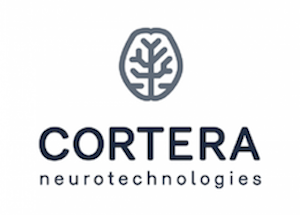
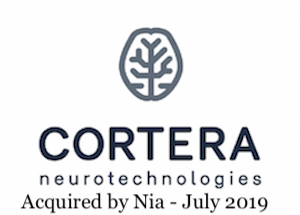
Adding Novela, Intel, Nia, Facebook. Amending status of Cortera, and CTRL-Labs

Changed region(s): [[0.06, 0.893, 0.9, 1.0]]

diff --git a/neuroengineering_companies.html b/neuroengineering_companies.html
@@ -214,6 +214,36 @@
     border-radius: 15%
     }
 
+    .img_15-1{
+    background-image:url('img/facebook.png');
+    background-color: white;
+    border-radius: 15%
+    }
+
+    .img_15-2{
+    background-image:url('img/nia.jpg');
+    background-color: white;
+    border-radius: 15%
+    }
+
+    .img_15-3{
+    background-image:url('img/neuronexus.jpg');
+    background-color: white;
+    border-radius: 15%
+    }
+
+    .img_15-4{
+    background-image:url('img/intel.png');
+    background-color: white;
+    border-radius: 15%
+    }
+
+    .img_15-5{
+    background-image:url('img/novela.jpg');
+    background-color: white;
+    border-radius: 15%
+    }
+
     </style>
 
 </head>
@@ -334,20 +364,24 @@
                                         <a href="https://calahealth.com/" target="_blank"><div class="square img_1-1 hover"></div></a>
                                         <a href="https://www.ctrl-labs.com/ctrl-kit/" target="_blank"> <div class="square img_1-2"></div></a>
                                         <a href="https://dreem.com/en/journey" target="_blank"> <div class="square img_12-1"></div></a>
+                                        <a href="https://www.theverge.com/2019/9/23/20881032/facebook-ctrl-labs-acquisition-neural-interface-armband-ar-vr-deal" target="_blank"> <div class="square img_15-1"></div></a>
                                         <a href="https://thinkhumm.com/" target="_blank"> <div class="square img_14-1"></div></a>
                                         <a href="https://kernel.co/" target="_blank"> <div class="square img_1-3"></div></a>
                                         <a href="https://choosemuse.com/how-it-works/" target="_blank"> <div class="square img_2-1"></div></a>
                                         <a href="http://neurable.com/technology" target="_blank"> <div class="square img_11-1"></div></a>
                                         <a href="http://www.neurosigma.com/research.html" target="_blank"> <div class="square img_2-2"></div></a>
                                         <a href="https://www.openwater.cc/" target="_blank"> <div class="square img_2-3"></div></a>
+                                        <a href="" target="_blank"> <div class="square"></div></a>
+                                        <a href="" target="_blank"> <div class="square"></div></a>
                                         <div style='text-align: center;'>
                                             <div class = 'column' style='width:30%; height:25%; padding:1.9%; border-radius: 25%; display: inline-block;'> </div>
                                         </div> 
                                         <div>
                                             <ul>
                                                 <li><a href="https://calahealth.com/" target="_blank"><b>Cala Health:</b></a> Wearable neuromodulator targeting the peripheral nervous system to alleviate essential tremor.</li>
-                                                <li><a href="https://www.ctrl-labs.com/ctrl-kit/" target="_blank"><b>CTRL-Labs:</b></a> Wearable electromyography (EMG) technology to decode neural signals for hand gestures.</li>
+                                                <li><a href="https://www.ctrl-labs.com/ctrl-kit/" target="_blank"><b>CTRL-Labs:</b></a> Wearable electromyography (EMG) technology to decode neural signals for hand gestures. Acquired by Facebook in Sept 2019.</li>
                                                 <li><a href="https://dreem.com/en/journey" target="_blank"><b>Dreem:</b></a> A wearable electroencephalogram (EEG) headband for monitoring sleep activity.</li>
+                                                <li><a href="https://www.theverge.com/2019/9/23/20881032/facebook-ctrl-labs-acquisition-neural-interface-armband-ar-vr-deal" target="_blank"><b>Facebook:</b></a> Acquired CRTL-Labs. We will see what comes of their electromyography (EMG) wristband technology.</li>
                                                 <li><a href="https://thinkhumm.com/" target="_blank"><b>Humm:</b></a> A wearable patch that stimulates the brain using transcranial alternating current stimulation (tACS).</li>
                                                 <li><a href="https://kernel.co/" target="_blank"><b>Kernel:</b></a> A non-invasive brain machine interface company.</li>
                                                 <li><a href="https://choosemuse.com/how-it-works/" target="_blank"><b>Muse:</b></a> Wearable electroencephalogram (EEG) headset technology.</li>
@@ -370,8 +404,11 @@
                                         <a href="https://iota.bio/" target="_blank"> <div class="square img_3-3"> </div> </a>
                                         <a href="https://www.medtronic.com/us-en/healthcare-professionals/products/neurological.html" target="_blank"> <div class="square img_4-1"> </div> </a>
                                         <a href="https://www.neuralink.com/" target="_blank"> <div class="square img_4-2"> </div> </a>
+                                        <a href="https://neuronexus.com" target="_blank"> <div class="square img_15-3"> </div> </a>
                                         <a href="https://www.neuropace.com/the-rns-system/" target="_blank"> <div class="square img_4-3"> </div> </a>
                                         <a href="https://www.nevro.com/English/About-Us/Who-We-Are/default.aspx" target="_blank"> <div class="square img_5-1"> </div> </a>
+                                        <a href="https://niatherapeutics.com" target="_blank"> <div class="square img_15-2"> </div> </a>
+                                        <a href="https://www.novelaneuro.com" target="_blank"> <div class="square img_15-5"> </div> </a>
                                         <a href="https://paradromics.com/" target="_blank"> <div class="square img_5-2"> </div> </a>
                                         <a href="https://rippleneuro.com/ripple-products/" target="_blank"> <div class="square img_5-3"> </div> </a>
                                         <div style='text-align: center;'>
@@ -379,13 +416,16 @@
                                         </div> 
                                         <div>
                                             <ul>
-                                                <li><a href="http://corteraneuro.com/products/neuroscience" target="_blank"><b>Cortera Neurotechnologies:</b></a> Implantable neurointerfaces for recording and stimulation in the human centeral nervous system.</li>
+                                                <li><a href="http://corteraneuro.com/products/neuroscience" target="_blank"><b>Cortera Neurotechnologies:</b></a> Implantable neurointerfaces for recording and stimulation in the human centeral nervous system. Acquired by Nia Therapeutics in July 2019. </li>
                                                 <li><a href="https://www.galvani.bio/" target="_blank"><b>Galvani Bioelectronics:</b></a> Creates tiny implantables that read and modify electrical signals passing along nerves. </li>
                                                 <li><a href="https://iota.bio/" target="_blank"><b>Iota Biosciences:</b></a> Implantable ultrasonic motes that can record and stimulate nerves.</li>
                                                 <li><a href="https://www.medtronic.com/us-en/healthcare-professionals/products/neurological.html" target="_blank"><b>Medtronic:</b></a> Develops many implantable technologies i.e. spinal cord stimulation, deep brain stimualtion etc.</li>
                                                 <li><a href="https://www.neuralink.com/" target="_blank"><b>Neuralink:</b></a> Brain machine interface company.</li>
+                                                <li><a href="https://neuronexus.com" target="_blank"><b>Neuronexus:</b></a> Neural probes, systems, and custom neural interface solutions.</li>
                                                 <li><a href="https://www.neuropace.com/the-rns-system/" target="_blank"><b>Neuropace:</b></a> Brain responsive neurostimulation system for epilepsy that responds in real time.</li>
                                                 <li><a href="https://www.nevro.com/English/About-Us/Who-We-Are/default.aspx" target="_blank"><b>Nevro:</b></a> Neuromodulation platform for the treatment of chronic pain.</li>
+                                                <li><a href="https://niatherapeutics.com" target="_blank"><b>Nia Therapeutics:</b></a> An implantable brain stimulation technology to restore memory function. Acquired Cortera Neurotechnologies in July 2019.</li>
+                                                <li><a href="https://www.novelaneuro.com" target="_blank"><b>Novela Neurotech:</b></a> Smart probe technology for neurostimulation treatment.</li>
                                                 <li><a href="https://paradromics.com/" target="_blank"><b>Paradromics:</b></a> Brain computer interface company.</li>
                                                 <li><a href="https://rippleneuro.com/ripple-products/" target="_blank"><b>Ripple Neuro:</b></a> Develops various neural recording systems.</li>
                                             </ul>
@@ -442,8 +482,11 @@
                                         <a href="https://www.brainchipinc.com/" target="_blank"> <div class="square img_8-2"> </div> </a>
                                         <a href="https://deepmind.com/" target="_blank"> <div class="square img_8-3"> </div> </a>
                                         <a href="http://www.research.ibm.com/articles/brain-chip.shtml" target="_blank"> <div class="square img_9-1"> </div> </a>
+                                        <a href="https://newsroom.intel.com/news/intels-pohoiki-beach-64-chip-neuromorphic-system-delivers-breakthrough-results-research-tests/#gs.eh2xy3" target="_blank"> <div class="square img_15-4"> </div> </a>
                                         <a href="https://numenta.com/machine-intelligence-technology/numenta-in-a-nutshell/" target="_blank"> <div class="square img_10-1"> </div> </a>
                                         <a href="https://www.qualcomm.com/news/onq/2013/10/10/introducing-qualcomm-zeroth-processors-brain-inspired-computing" target="_blank"> <div class="square img_9-2"> </div> </a>
+                                        <a href="" target="_blank"> <div class="square"> </div> </a>
+                                        <a href="" target="_blank"> <div class="square"> </div> </a>
 
                                         <div style='text-align: center;'>
                                             <div class = 'column' style='width:30%; height:25%; padding:1.9%; border-radius: 25%; display: inline-block;'> </div>
@@ -454,6 +497,7 @@
                                                 <li><a href="https://www.brainchipinc.com/" target="_blank"><b>Brainchip:</b></a> Neuromorphic systems on chips. </li>
                                                 <li><a href="https://deepmind.com/" target="_blank"><b>Deepmind:</b></a> Borrowing neural principles to implement in artificial neural networks </li>
                                                 <li><a href="http://www.research.ibm.com/articles/brain-chip.shtml" target="_blank"><b>IBM:</b></a> Creates neuromorphic computing hardware, of which the True North chip is an example.</li>
+                                                <li><a href="https://newsroom.intel.com/news/intels-pohoiki-beach-64-chip-neuromorphic-system-delivers-breakthrough-results-research-tests/#gs.eh2xy3" target="_blank"><b>Intel:</b></a> Creates neuromorphic computing hardware, of which the 64 chip Pohoiki Beach is an example.</li>
                                                 <li><a href="https://numenta.com/machine-intelligence-technology/numenta-in-a-nutshell/" target="_blank"><b>Numenta:</b></a> Builds large scale brain models in software leading towards artificial general intelligence.</li>
 
                                                 <li><a href="https://www.qualcomm.com/news/onq/2013/10/10/introducing-qualcomm-zeroth-processors-brain-inspired-computing" target="_blank"><b>Qualcomm:</b></a> Develops zeroth processors for brain-inspired computing. </li>
